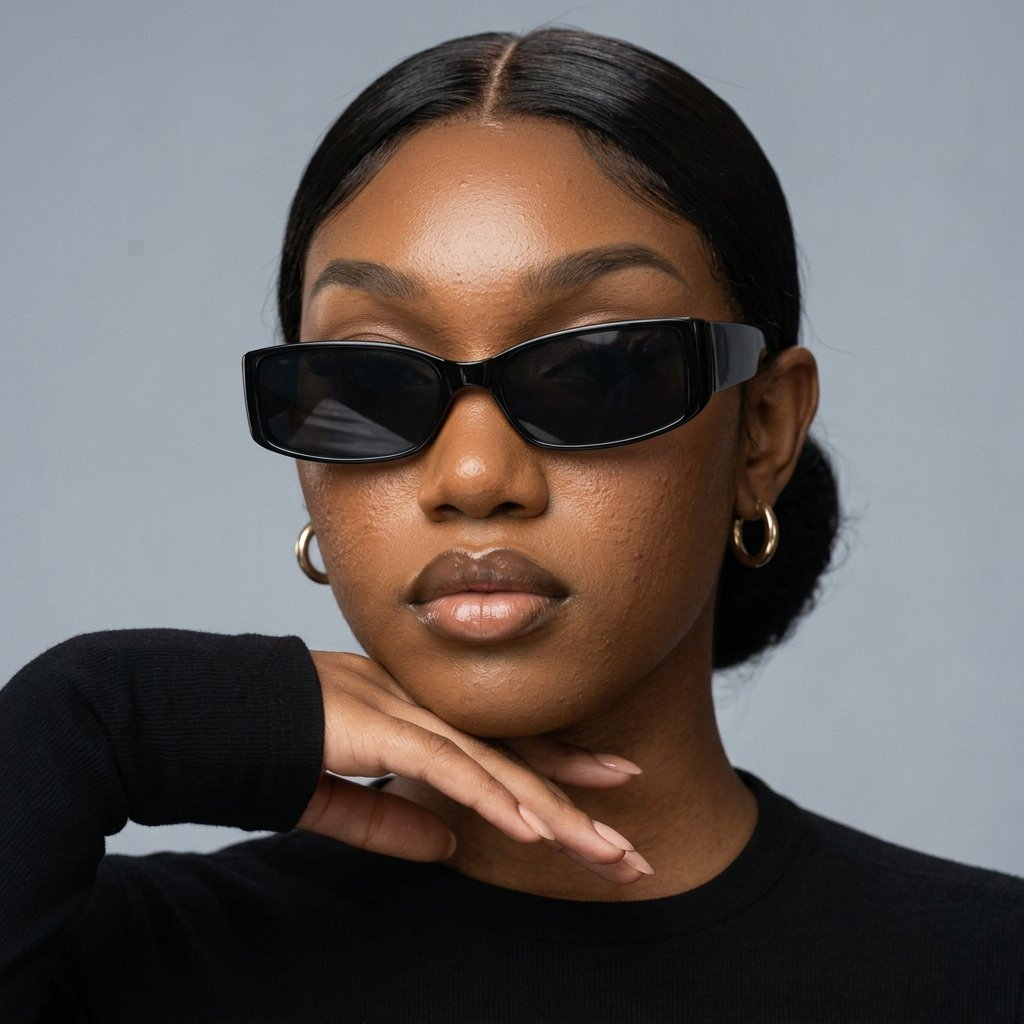
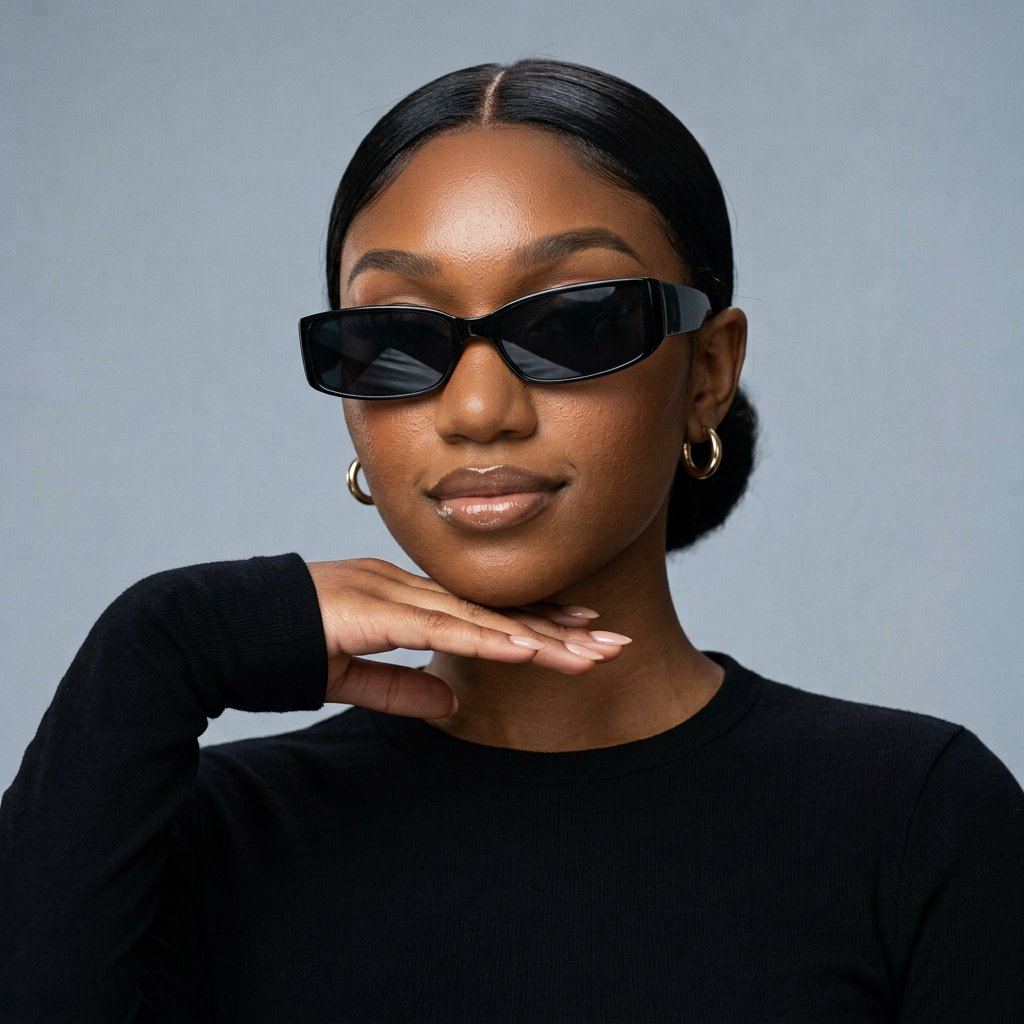
Press kit v5: 9-shot superstar batch (owner-approved 03 kept; rest regenerated on face+approved-shot anchors, style refs, wide-hip hourglass spec); gallery/bio/cover wired to full batch

diff --git a/src/services/firebase/services.ts b/src/services/firebase/services.ts
@@ -158,7 +158,7 @@ const initialGallery: GalleryImage[] = [
   },
   {
     id: 'g5',
-    url: '/images/press-05-square.jpg',
+    url: '/images/press-06-rose.jpg',
     title: 'Vaw Lyne Portrait Close-Up',
     description: 'Acoustic & Soul expression portrait',
     category: 'photoshoots',
@@ -167,7 +167,7 @@ const initialGallery: GalleryImage[] = [
   },
   {
     id: 'g6',
-    url: '/images/press-01-hero.jpg',
+    url: '/images/press-07-scarf.jpg',
     title: 'Studio White Backdrop Shoot',
     description: 'Minimalist studio photography session',
     category: 'photoshoots',
@@ -176,7 +176,7 @@ const initialGallery: GalleryImage[] = [
   },
   {
     id: 'g7',
-    url: '/images/press-02-stage.jpg',
+    url: '/images/press-08-bw.jpg',
     title: 'Vaw Lyne Iconic Artist Portrait',
     description: 'Signature artist photo for Afro House & Soul dispatches',
     category: 'photoshoots',
@@ -185,7 +185,7 @@ const initialGallery: GalleryImage[] = [
   },
   {
     id: 'g8',
-    url: '/images/press-03-urban.jpg',
+    url: '/images/press-09-selfie.jpg',
     title: 'Live Stage Performance',
     description: 'Performing live for Afro House & Afro Soul fans in the UK',
     category: 'stage',
@@ -230,7 +230,7 @@ const initialArtists: Artist[] = [{
   id: 'vaw_lyne',
   name: 'Vaw Lyne',
   biography: 'Nigerian singer-songwriter based in the United Kingdom. Fusing Afro House, Deep House, Afro Soul, Amapiano, and R&B into global story-driven anthems of empowerment, love, and growth.',
-  photoUrl: '/images/press-02-stage.jpg',
+  photoUrl: '/images/press-01-hero.jpg',
   socialLinks: {
     spotify: 'https://open.spotify.com/artist/20HDRtBizjUi4z4KiiMq0n',
     appleMusic: 'https://music.apple.com/mw/artist/vaw-lyne/1892158941',
@@ -573,7 +573,7 @@ export function uploadFile(
             resultUrl = 'https://images.unsplash.com/photo-1514525253161-7a46d19cd819?q=80&w=800';
           } else {
             // General premium backdrop
-            resultUrl = '/images/press-02-stage.jpg';
+            resultUrl = '/images/press-05-square.jpg';
           }
 
           onProgress(100, resultUrl);

diff --git a/src/components/PhotoGallery.tsx b/src/components/PhotoGallery.tsx
@@ -54,7 +54,7 @@ export default function PhotoGallery() {
     },
     {
       id: 'g5',
-      url: '/images/press-05-square.jpg',
+      url: '/images/press-06-rose.jpg',
       title: 'Vaw Lyne Portrait Close-Up',
       description: 'Acoustic & Soul expression portrait',
       category: 'photoshoots',
@@ -63,7 +63,7 @@ export default function PhotoGallery() {
     },
     {
       id: 'g6',
-      url: '/images/press-01-hero.jpg',
+      url: '/images/press-07-scarf.jpg',
       title: 'Studio White Backdrop Shoot',
       description: 'Minimalist studio photography session',
       category: 'photoshoots',
@@ -72,7 +72,7 @@ export default function PhotoGallery() {
     },
     {
       id: 'g7',
-      url: '/images/press-02-stage.jpg',
+      url: '/images/press-08-bw.jpg',
       title: 'Vaw Lyne Iconic Artist Portrait',
       description: 'Signature artist photo for Afro House & Soul dispatches',
       category: 'photoshoots',
@@ -81,7 +81,7 @@ export default function PhotoGallery() {
     },
     {
       id: 'g8',
-      url: '/images/press-03-urban.jpg',
+      url: '/images/press-09-selfie.jpg',
       title: 'Live Stage Performance',
       description: 'Performing live for Afro House & Afro Soul fans in the UK',
       category: 'stage',

diff --git a/src/App.tsx b/src/App.tsx
@@ -485,7 +485,7 @@ export default function App() {
               <div className="absolute inset-0 bg-gradient-to-b from-transparent via-transparent to-black/80 z-10 pointer-events-none" />
               <div className="relative aspect-[4/5] rounded-2xl overflow-hidden bg-zinc-950">
                 <img
-                  src="/images/press-04-golden.jpg"
+                  src="/images/press-06-rose.jpg"
                   alt="Vaw Lyne portrait"
                   className="w-full h-full object-cover group-hover:scale-105 transition-transform duration-500 pointer-events-none select-none"
                   referrerPolicy="no-referrer"
